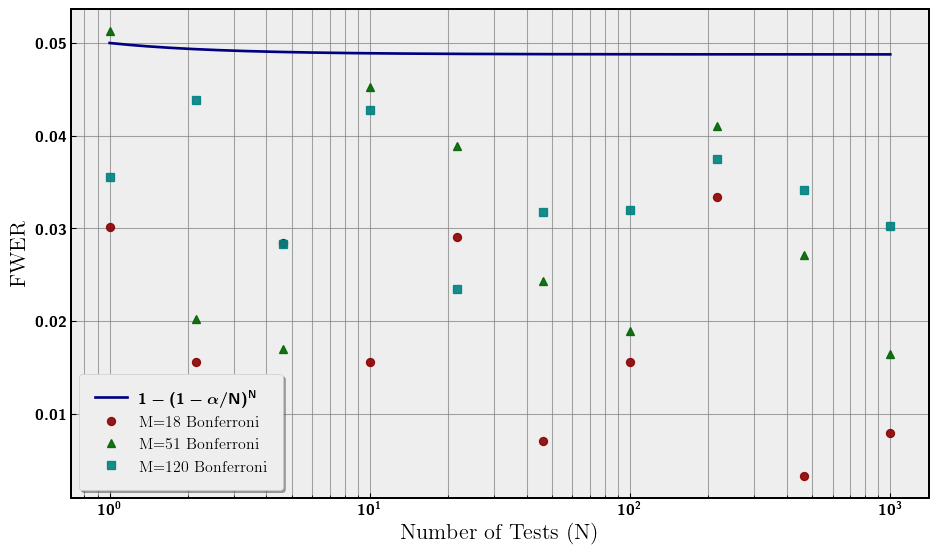
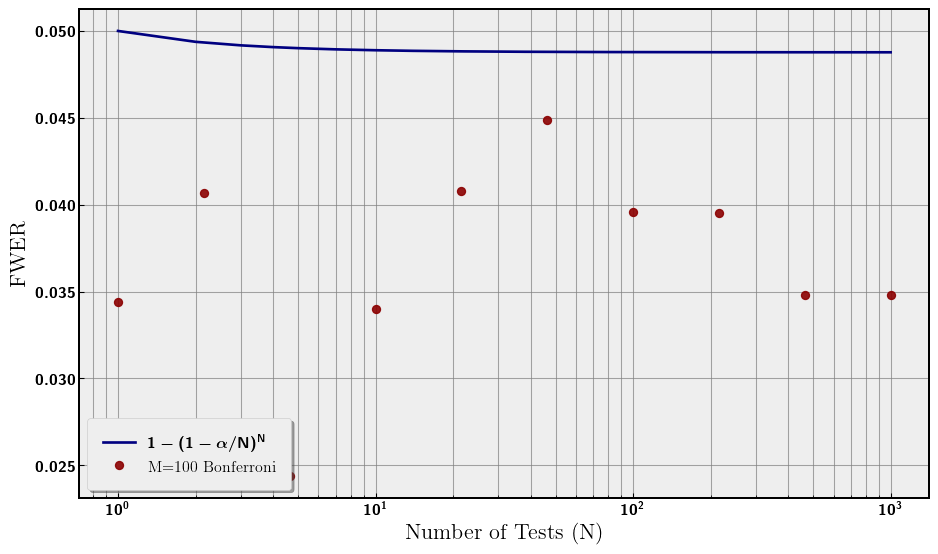
adjusted some code

diff --git a/_layouts/base.html b/_layouts/base.html
@@ -1,6 +1,8 @@
 <!DOCTYPE html>
 <html lang="{{ page.lang | default: site.lang | default: "en" }}">
 
+  {%- include head.html -%}
+
   <body>
 
     {%- include header.html -%}

diff --git a/mult_testing/README.md b/mult_testing/README.md
@@ -13,10 +13,11 @@ tests we perform during an analysis, the higher our false positive rate
 (Type I Error). Imagine we choose our confidence level to be 95%,
 essentially we are choosing our false positive rate to be 5% for one
 test. If we test again, the probability of at least one false positive
-is 1 − (0.95 ⋅ 0.95).
+is 1 − (0.95 ⋅ 0.95) = .0975 \> 0.05 (one minus the probability of no
+false positives).
 
-If we continue testing until *N*, we can rewrite the false positive
-probablity (at least one) as 1 − (1 − 0.05)<sup>*N*</sup>. This
+If we continue testing until *N*, we can rewrite the probablity (at
+least one false positive) as 1 − (1 − 0.05)<sup>*N*</sup>. This
 probability is called the family-wise error rate (FWER). As *N*
 increases, the FWER increases to probability of 1. If we allow this
 problem to get out of hand, we could be making false inferences.
@@ -33,8 +34,8 @@ from the number of tails. Some parameters:
 - *n* = 10000 - number of repetitions of each analysis
 
 So, the total number of coins flipped in each analysis is
-*M* ⋅ *N* ⋅ *n*. We choose *M* = {18, 51, 120}, and *N* ∈ \[1, 1000\]
-for the following plots.
+*M* ⋅ *N* ⋅ *n*. We choose *M* = 100, and *N* ∈ \[1, 1000\] for the
+following plots.
 
 ``` python
 import numpy as np
@@ -58,8 +59,12 @@ rcParams['xtick.labelsize'] = 12
 rcParams['ytick.labelsize'] = 12  
 plt.style.use('bmh')
 
+# let's setup some constants
 random.seed(42)
 P = 0.5
+ALPHA = 0.05
+M = 100
+n = 10000
 
 def asymp(N_, n_, M_, alpha_): # asnymptotic false positive simulation
     results = np.random.randint(0, 2, size=(n_, N_, M_))
@@ -72,35 +77,27 @@ def asymp(N_, n_, M_, alpha_): # asnymptotic false positive simulation
 
 # run three samples with low, med, and high M coin flip
 fwer_N = np.logspace(0,3,10)
-low_M = 18 
-fwer_low = [asymp(int(i), 10000, low_M, 0.05) for i in fwer_N]
-med_M = 51
-fwer_med = [asymp(int(i), 10000, med_M, 0.05) for i in fwer_N]
-high_M = 120
-fwer_high = [asymp(int(i), 10000, high_M, 0.05) for i in fwer_N]
+fwer_numer = [asymp(int(i), n, M, ALPHA) for i in fwer_N]
 
 # analytic FWER
-fwer_bound_N = np.arange(1, 1000, 0.1) 
-fwer_bound = 1 - (1 - 0.05)**fwer_bound_N
+fwer_bound_N = np.linspace(1, 1000, 1000) 
+fwer_bound = 1 - (1 - ALPHA)**fwer_bound_N
 ```
 
-We plot the results of our analyses in
+We plot the results of our analysis in
 <a href="#fig-fwer" class="quarto-xref">Figure 1</a>. The false positive
-rate (FWER) increases toward 1 with *N*. The three choices of *M* are
+rate (FWER) increases toward 1 with *N*. The choice of *M* = 100 is
 plotted along with the analytical curve. There is a discrepancy between
-the analytical curve and the numerical simulations that is smallest for
-*M* = 51. We will return to this in the next section. The relevant
-feature is the monotonic increase in Type I Error.
+the analytical curve and the numerical simulations that tends to zero at
+large *N*. We will return to subtlety later in this note. For now, the
+relevant feature is the monotonic increase in Type I Error, the false
+positive probability with the number of tests.
 
 ``` python
 fig, ax = plt.subplots(figsize=(10, 6))
 ax.plot(fwer_bound_N, fwer_bound, label=r'$1 - (1 - \alpha)^N$', color='navy')
-ax.plot(fwer_N, fwer_low, 'o',label=f'M={low_M}', \
+ax.plot(fwer_N, fwer_numer, 'o',label=f'M={M}', \
     color='darkred', markersize=6, alpha=0.9)
-ax.plot(fwer_N, fwer_med, '^',label=f'M={med_M}', \
-    color='darkgreen', markersize=6, alpha=0.9)
-ax.plot(fwer_N, fwer_high, 's',label=f'M={high_M}', \
-    color='teal', markersize=6, alpha=0.9)
 
 ax.set_xlabel('Number of Tests (N)')
 ax.set_ylabel('FWER')
@@ -119,65 +116,6 @@ plt.show()
 
 ![](README_files/figure-commonmark/fig-fwer-output-1.png)
 
-## Discrepancy in FWER
-
-Our *α* significance was chosen to be 0.05 for this analysis. However,
-when we are dealing with coin flips we are using discrete data and not
-continuous. This has consequences for what constitutes a significant
-result for flipping *M* coins. For a significant result we need the
-p-value of the number of heads (or tails hence two-tail test) to be the
-largest number less than *α* = 0.05. We call this number of heads the
-critical number of heads. However, due to discrete data, the critical
-p-value can vary greatly rather than being exactly 0.05. One would
-expect that as the number of coin flips increases, the critical p-value
-should approach 0.05. The intuition being as we increase the number of
-coins flipped we are filling in the discrete data set and approaching
-continuum. We plot the critical p-value for increasing *M* coin flips in
-<a href="#fig-crit" class="quarto-xref">Figure 2</a>. Additionally, we
-also plot the three *M* values from the previous simulation and they
-show the same hierarchy as seen in
-<a href="#fig-fwer" class="quarto-xref">Figure 1</a>. The closer the
-critical p-value is to 0.05, the closer the FWER is to
-1 − (1 − *α*)<sup>*N*</sup>.
-
-``` python
-# calculate critical p-vals
-
-Ms = np.logspace(np.log(3),np.log(100),10000).astype(int)
-bins = [binom(i,P) for i in Ms]
-crits = [int(i.ppf(0.05 / 2)-1.) for i in bins]
-pvs = [2.*bins[i].cdf(min(Ms[i]-crits[i],crits[i])) for i in range(len(Ms))]
-index = [min(range(len(Ms)), key=lambda i: abs(Ms[i]-low_M)), 
-             min(range(len(Ms)), key=lambda i: abs(Ms[i]-med_M)), 
-             min(range(len(Ms)), key=lambda i: abs(Ms[i]-high_M))
-             ]
-
-labels = [f'M={low_M}', f'M={med_M}', f'M={high_M}']
-fig, ax = plt.subplots(figsize=(10, 6))
-ax.plot(Ms, pvs, color='navy', label='Critical p-Value', alpha=0.8)
-ax.axhline(0.05, color='black', label=f'$\\alpha = 0.05$')
-plt.plot([Ms[index[0]]], [pvs[index[0]]], 'o', label=labels[0], \
-    color='darkred', markersize=8, zorder=2)
-plt.plot([Ms[index[1]]], [pvs[index[1]]], '^', label=labels[1], \
-    color='darkgreen', markersize=8, zorder=2)
-plt.plot([Ms[index[2]]], [pvs[index[2]]], 's', label=labels[2], \
-    color='teal', markersize=8, zorder=2)
-ax.set_xscale('log')
-ax.set_xlabel('Number of Coin Flips (M)')
-ax.set_ylabel('p-value')
-#plt.title('p-value of Critical Integer $(p_{\\text{crit}}< \\alpha)$')
-ax.legend(loc='lower right', frameon=True, shadow=True, borderpad=1)
-ax.grid(which='both', linestyle='-', linewidth=0.8, color='gray', alpha=0.7)
-for spine in ax.spines.values():
-    spine.set_edgecolor('black')
-    spine.set_linewidth(1.5)
-
-plt.tight_layout() 
-plt.show()
-```
-
-![](README_files/figure-commonmark/fig-crit-output-1.png)
-
 ## Correcting Significance
 
 A simple solution to this problem is to scale our choice of *α* for each
@@ -188,37 +126,27 @@ Taylor Expansion of the FWER equation with small parameter *α*.
 1 − (1 − *α*)<sup>*N*</sup> → 1 − (1 − *N* ⋅ *α* + 𝒪(*α*<sup>2</sup>)) = *N* ⋅ *α* + 𝒪(*α*<sup>2</sup>)
 
 Given this expansion, a natural redefinition of *α* is *α* = *α*/*N*
-such that the first term in the expansion is our new *α* = 0.05. This
-redefinition bounds the FWER to 0.05 rather than asymptoting to 1. Now
-the entire analysis has a significance of 0.05, while each individual
-test has a smaller significance scaled by the number of tests. Now, we
-redo the analysis with our new significance to confirm that FWER is
-around or less than 0.05. This can be seen in
-<a href="#fig-fwer-bon" class="quarto-xref">Figure 3</a>. Notice that
-there is no clear hierarchy between the three choices of *M*, this can
-be explained by <a href="#fig-crit" class="quarto-xref">Figure 2</a>
-again, where this time because *α* depends on *N*, the critical p-values
-will vary with *N* and thus the hierarchy will vary.
+such that the first term in the expansion is 0.05, while the
+significance per test is scaled down by *N*. This redefinition bounds
+the FWER to 0.05 rather than asymptoting to 1. Now the entire analysis
+has a significance of 0.05, which is what we desired by choosing
+*α* = 0.05. Now, we redo the analysis with our new significance to
+confirm that FWER is around 0.05. This can be seen in
+<a href="#fig-fwer-bon" class="quarto-xref">Figure 2</a>.
 
 ``` python
 # three samples with bonferroni
-fwer_b_low = [asymp(int(i), 10000, low_M, 0.05/i) for i in fwer_N]
-fwer_b_med = [asymp(int(i), 10000, med_M, 0.05/i) for i in fwer_N]
-fwer_b_high = [asymp(int(i), 10000, high_M, 0.05/i) for i in fwer_N]
+fwer_bon = [asymp(int(i), n, M, ALPHA/i) for i in fwer_N]
 
 # fwer with adjusted alpha = alpha/N
-fwer_bound_b = 1 - (1 - 0.05/fwer_bound_N)**fwer_bound_N
+fwer_bound_bon = 1 - (1 - ALPHA/fwer_bound_N)**fwer_bound_N
 
 fig, ax = plt.subplots(figsize=(10, 6))
 
-ax.plot(fwer_bound_N, fwer_bound_b, label=r'$1 - (1 - \alpha/N)^N$', \
+ax.plot(fwer_bound_N, fwer_bound_bon, label=r'$1 - (1 - \alpha/N)^N$', \
     color='navy', linewidth=2)
-ax.plot(fwer_N, fwer_b_low, 'o', label=f'M={low_M} Bonferroni', \
+ax.plot(fwer_N, fwer_bon, 'o', label=f'M={M} Bonferroni', \
     color='darkred', markersize=6, alpha=0.9)
-ax.plot(fwer_N, fwer_b_med, '^', label=f'M={med_M} Bonferroni', \
-    color='darkgreen', markersize=6, alpha=0.9)
-ax.plot(fwer_N, fwer_b_high, 's', label=f'M={high_M} Bonferroni', \
-    color='teal', markersize=6, alpha=0.9)
 
 ax.set_xlabel('Number of Tests (N)')
 ax.set_ylabel('FWER')
@@ -236,3 +164,62 @@ plt.show()
 ```
 
 ![](README_files/figure-commonmark/fig-fwer-bon-output-1.png)
+
+## Subtle Discrepancy in Numerical FWER
+
+Our *α* significance was chosen to be 0.05 for this analysis. However,
+when we are dealing with coin flips we are using discrete data and not
+continuous. This has consequences for what constitutes a significant
+result for flipping *M* coins. For a significant result we need the
+p-value of the number of heads (or tails hence two-tail test) to be the
+largest number less than *α* = 0.05. We call this number of heads the
+critical number of heads. However, due to our discrete data, the
+critical p-value can vary greatly rather than being exactly 0.05. One
+would expect that as the number of coin flips increases, the critical
+p-value should approach 0.05. The intuition being as we increase the
+number of coins flipped we are filling in the discrete data set and
+approaching continuum. We plot the critical p-value for increasing *M*
+coin flips in <a href="#fig-crit" class="quarto-xref">Figure 3</a>.
+Additionally, we also overlay the critical p-values for
+*M* = {18, 51, 100}. The closer the critical p-value is to 0.05, the
+closer the FWER is to 1 − (1 − *α*)<sup>*N*</sup>.
+
+``` python
+# calculate critical p-vals and overly M = {18, 51, 100}
+MLOW = 18
+MMED = 51
+
+Ms = np.logspace(np.log(3),np.log(100),10000).astype(int)
+bins = [binom(i,P) for i in Ms]
+crits = [int(i.ppf(0.05 / 2)-1.) for i in bins]
+pvs = [2.*bins[i].cdf(min(Ms[i]-crits[i],crits[i])) for i in range(len(Ms))]
+index = [min(range(len(Ms)), key=lambda i: abs(Ms[i]-MLOW)), 
+             min(range(len(Ms)), key=lambda i: abs(Ms[i]-MMED)), 
+             min(range(len(Ms)), key=lambda i: abs(Ms[i]-M))
+             ]
+
+labels = [f'M={MLOW}', f'M={MMED}', f'M={M}']
+fig, ax = plt.subplots(figsize=(10, 6))
+ax.plot(Ms, pvs, color='navy', label='Critical p-Value', alpha=0.8)
+ax.axhline(0.05, color='black', label=f'$\\alpha = 0.05$')
+plt.plot([Ms[index[0]]], [pvs[index[0]]], 's', label=labels[0], \
+    color='teal', markersize=8, zorder=2)
+plt.plot([Ms[index[1]]], [pvs[index[1]]], '^', label=labels[1], \
+    color='darkgreen', markersize=8, zorder=2)
+plt.plot([Ms[index[2]]], [pvs[index[2]]], 'o', label=labels[2], \
+    color='darkred', markersize=8, zorder=2)
+ax.set_xscale('log')
+ax.set_xlabel('Number of Coin Flips (M)')
+ax.set_ylabel('p-value')
+#plt.title('p-value of Critical Integer $(p_{\\text{crit}}< \\alpha)$')
+ax.legend(loc='lower right', frameon=True, shadow=True, borderpad=1)
+ax.grid(which='both', linestyle='-', linewidth=0.8, color='gray', alpha=0.7)
+for spine in ax.spines.values():
+    spine.set_edgecolor('black')
+    spine.set_linewidth(1.5)
+
+plt.tight_layout() 
+plt.show()
+```
+
+![](README_files/figure-commonmark/fig-crit-output-1.png)
